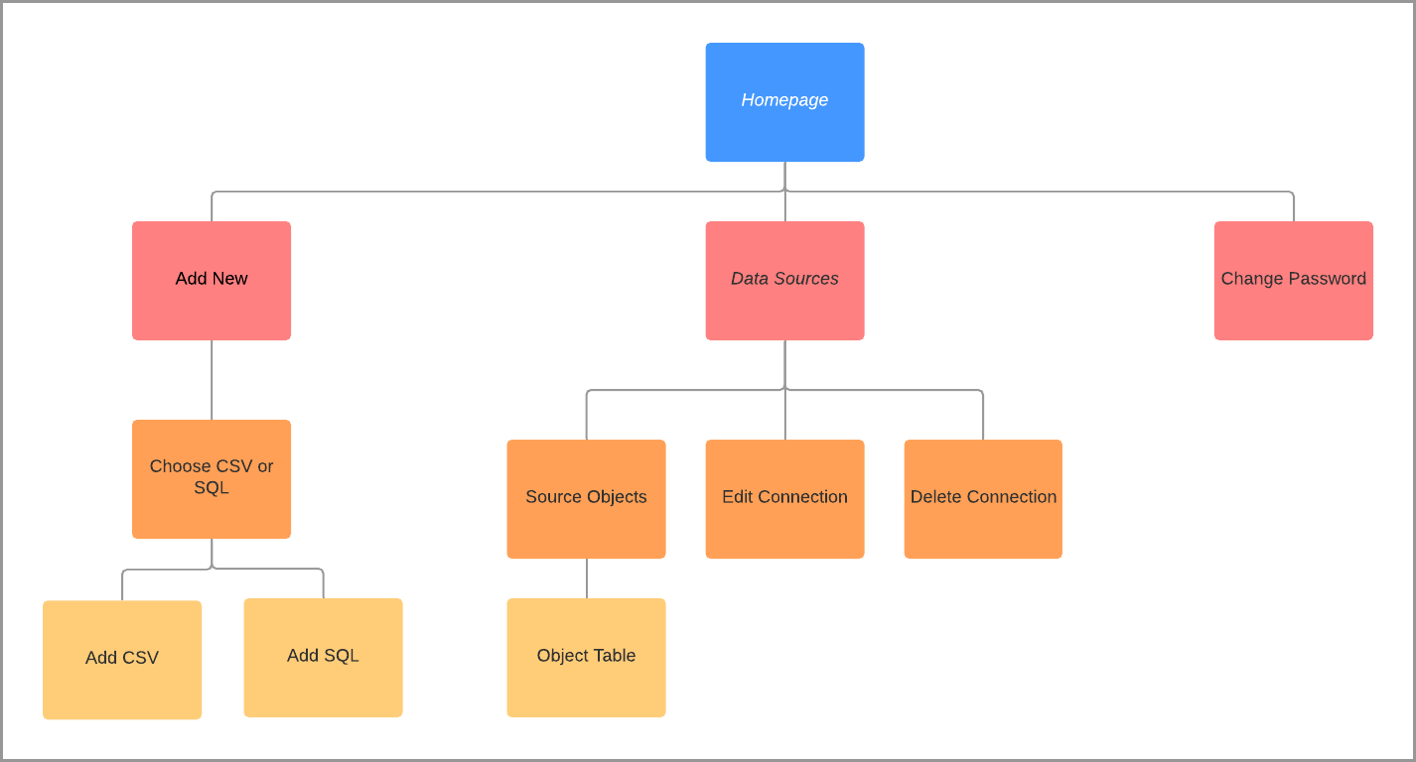
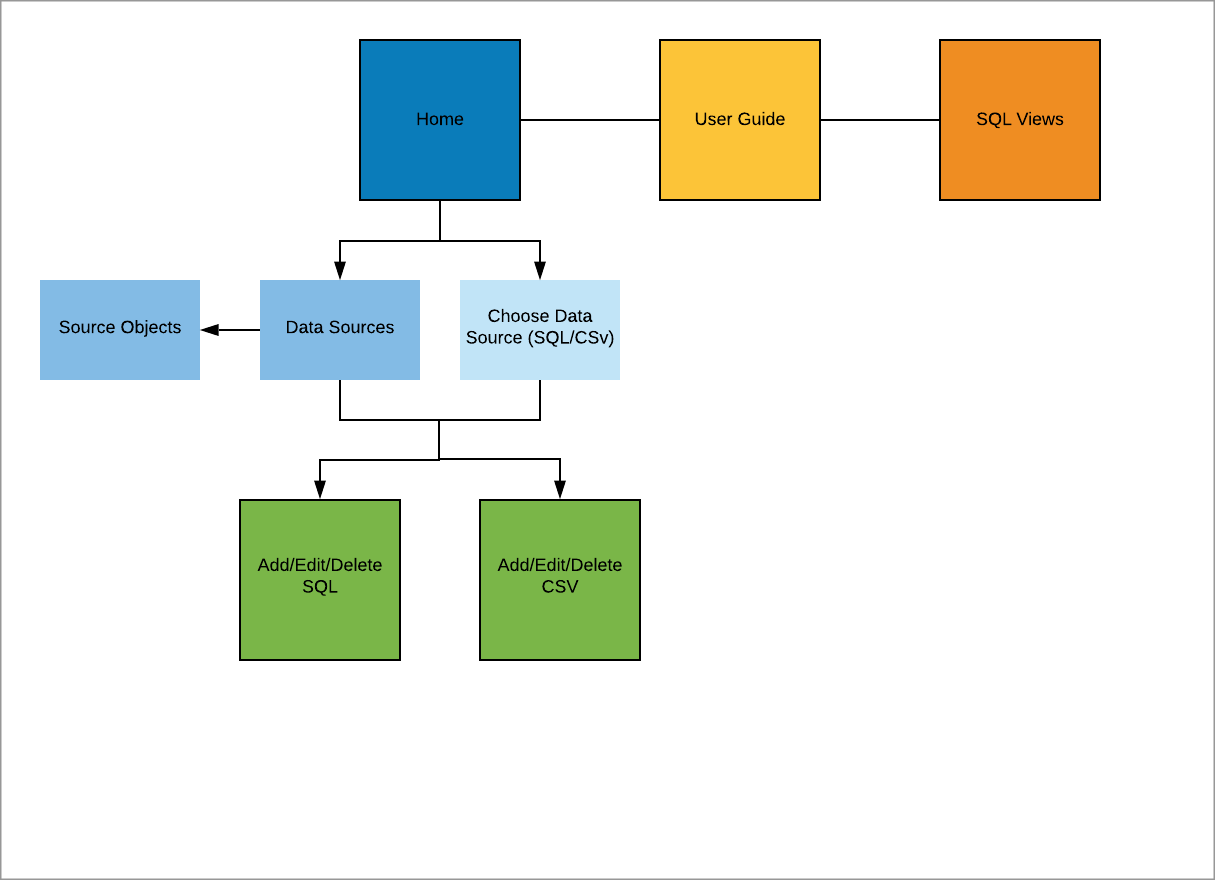
new site maps

diff --git a/project_gateway.html b/project_gateway.html
@@ -304,7 +304,7 @@
 
             <h1 id="big-title">Flow and Architecture</h1>
             <div class = "simplify-onboarding section-chunk">
-              <h3 class= "sub-section-title">Simplify the Onboarding Flow</h3>
+              <h3 class= "sub-section-title">Simplify the In-App Onboarding Flow</h3>
               <p>Because the main use case is a user setting up the application for the first time, I concentrated on optmizing the onboarding flow, condensing it into 1 step vs 6.</p>
 
               <div class = "row">
@@ -322,7 +322,7 @@
             </div>
 
             <div class = "complete-flow section-chunk">
-              <h3 class= "sub-section-title">Simplify the Complete Flow</h3>
+              <h3 class= "sub-section-title">Simplify the Complete Onboarding Flow</h3>
               <p>I improved not only on the in-app flow, but the complete user flow  which includes getting resources from external sources.</p>
               <div class= "row">
                 <div class = "small-12 medium-6 columns">
@@ -354,7 +354,7 @@
 
             <div class = "capabilities section-chunk">
               <h3 class= "sub-section-title">Demonstrate the App's Capabilities</h3>
-              <p>Condensing the site map also helped reduce the number of clicks it took users to perform common tasks that were previously not obvious capabilities in the application. This helps push our users into use case #3, troubleshooting in the Gateway application.</p>
+              <p>Condensing the organizational structure also helped reduce the number of clicks it took users to perform common tasks that were previously not obvious capabilities in the application. This helps push our users into use case #3, troubleshooting in the Gateway application.</p>
 
               <h5>Flow: View Objects</h5>
 
@@ -375,11 +375,11 @@
               <div class= "site-map row">
                 
                 <div class = "small-12 medium-6 columns">
-                  <h6>Old Site Map</h6>
+                  <h6>Old Org Structure</h6>
                   <img src = "img/proj-gateway/05c-capabilities.png">          
                 </div>
                 <div class = "small-12 medium-6 columns">
-                  <h6>New Site Map</h6>
+                  <h6>New Org Structure</h6>
                   <img src = "img/proj-gateway/05d-capabilities.png">          
                 </div>
               </div>
@@ -402,7 +402,7 @@
 
 
               <div class = "title-plus-image">
-                <h6>Welcome Gif</h6>
+                <h6>Welcome Flow (gif)</h6>
                 <img class = "gif" src= "img/proj-gateway/06a-onboarding-experience.gif">
               </div>
 
@@ -426,7 +426,7 @@
               <h3 class= "sub-section-title">Landing Experience</h3>
 
               <div class = "title-plus-image">
-                <h6>Add Data Source Gif</h6>
+                <h6>Add Data Source (gif)</h6>
                 <img class = "gif" src= "img/proj-gateway/07a-landing-experience.gif">
               </div>
 
